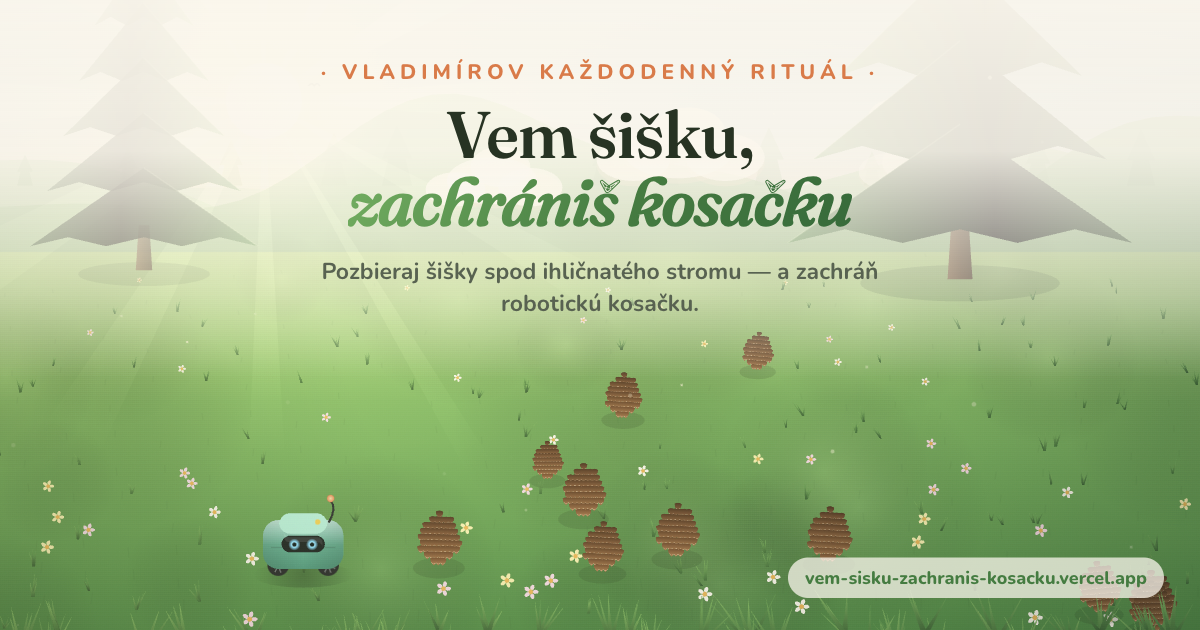
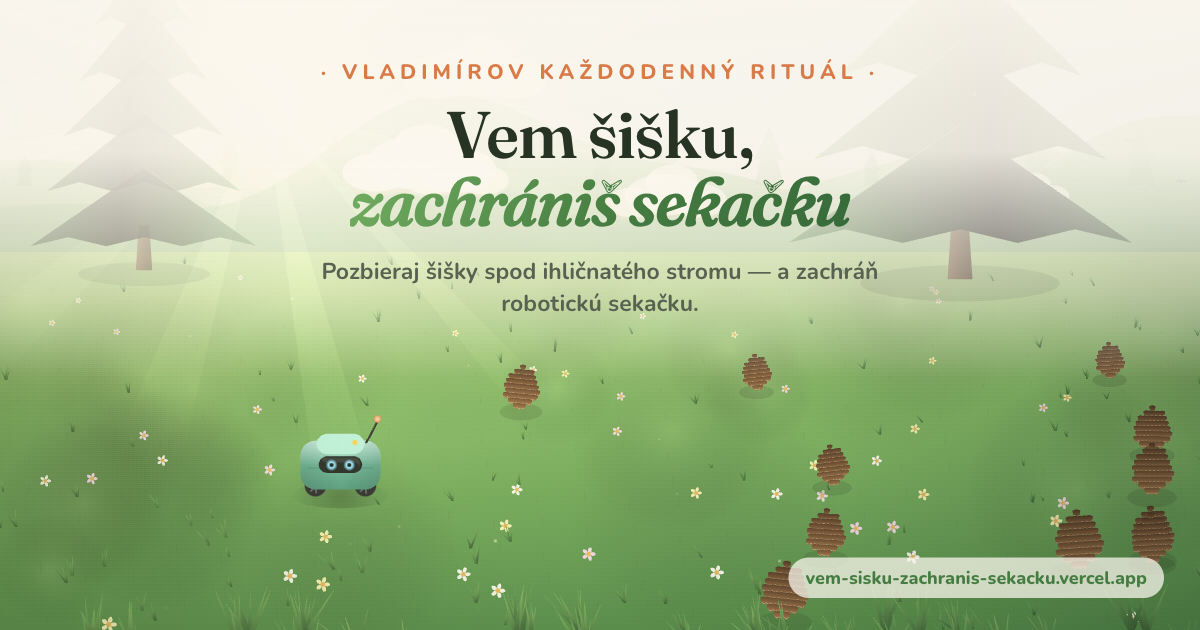
Rename mower kosačka to sekačka and switch to sekacku domain
Replace all "kosačka" wording with "sekačka" across UI, copy, README and
the regenerated OG image, point all canonical/OG/Twitter URLs to
vem-sisku-zachranis-sekacku.vercel.app, and left-align the difficulty
level options.

diff --git a/index.html b/index.html
@@ -4,30 +4,30 @@
   <meta charset="UTF-8" />
   <meta name="viewport" content="width=device-width, initial-scale=1.0, maximum-scale=1.0, user-scalable=no, viewport-fit=cover" />
   <meta name="theme-color" content="#bfe3c0" />
-  <title>Vem šišku, zachrániš kosačku</title>
-  <meta name="description" content="Pokojná záhradná simulácia – pozbieraj šišky spod ihličnatého stromu, kým robotická kosačka nenarazí na tri z nich. Vladimírov každodenný rituál." />
+  <title>Vem šišku, zachrániš sekačku</title>
+  <meta name="description" content="Pokojná záhradná simulácia – pozbieraj šišky spod ihličnatého stromu, kým robotická sekačka nenarazí na tri z nich. Vladimírov každodenný rituál." />
 
-  <link rel="canonical" href="https://vem-sisku-zachranis-kosacku.vercel.app/" />
+  <link rel="canonical" href="https://vem-sisku-zachranis-sekacku.vercel.app/" />
 
   <!-- Open Graph -->
   <meta property="og:type" content="website" />
-  <meta property="og:site_name" content="Vem šišku, zachrániš kosačku" />
+  <meta property="og:site_name" content="Vem šišku, zachrániš sekačku" />
   <meta property="og:locale" content="sk_SK" />
-  <meta property="og:url" content="https://vem-sisku-zachranis-kosacku.vercel.app/" />
-  <meta property="og:title" content="Vem šišku, zachrániš kosačku" />
-  <meta property="og:description" content="Pozbieraj šišky spod ihličnatého stromu — a zachráň robotickú kosačku. Vladimírov každodenný rituál." />
-  <meta property="og:image" content="https://vem-sisku-zachranis-kosacku.vercel.app/og-image.png" />
+  <meta property="og:url" content="https://vem-sisku-zachranis-sekacku.vercel.app/" />
+  <meta property="og:title" content="Vem šišku, zachrániš sekačku" />
+  <meta property="og:description" content="Pozbieraj šišky spod ihličnatého stromu — a zachráň robotickú sekačku. Vladimírov každodenný rituál." />
+  <meta property="og:image" content="https://vem-sisku-zachranis-sekacku.vercel.app/og-image.png" />
   <meta property="og:image:type" content="image/png" />
   <meta property="og:image:width" content="1200" />
   <meta property="og:image:height" content="630" />
-  <meta property="og:image:alt" content="Robotická kosačka na trávniku plnom šišiek pod ihličnatým stromom." />
+  <meta property="og:image:alt" content="Robotická sekačka na trávniku plnom šišiek pod ihličnatým stromom." />
 
   <!-- Twitter -->
   <meta name="twitter:card" content="summary_large_image" />
-  <meta name="twitter:title" content="Vem šišku, zachrániš kosačku" />
-  <meta name="twitter:description" content="Pozbieraj šišky spod ihličnatého stromu — a zachráň robotickú kosačku." />
-  <meta name="twitter:image" content="https://vem-sisku-zachranis-kosacku.vercel.app/og-image.png" />
-  <meta name="twitter:image:alt" content="Robotická kosačka na trávniku plnom šišiek pod ihličnatým stromom." />
+  <meta name="twitter:title" content="Vem šišku, zachrániš sekačku" />
+  <meta name="twitter:description" content="Pozbieraj šišky spod ihličnatého stromu — a zachráň robotickú sekačku." />
+  <meta name="twitter:image" content="https://vem-sisku-zachranis-sekacku.vercel.app/og-image.png" />
+  <meta name="twitter:image:alt" content="Robotická sekačka na trávniku plnom šišiek pod ihličnatým stromom." />
 
   <link rel="preconnect" href="https://fonts.googleapis.com" />
   <link rel="preconnect" href="https://fonts.gstatic.com" crossorigin />
@@ -51,7 +51,7 @@
       <div class="meta">
         <div class="day" id="day">Deň 1</div>
         <div class="remaining" id="remaining">0 spod stromu</div>
-        <div class="health" id="health" title="Stav kosačky" aria-label="Stav kosačky">
+        <div class="health" id="health" title="Stav sekačky" aria-label="Stav sekačky">
           <span class="pip"></span><span class="pip"></span><span class="pip"></span>
         </div>
       </div>
@@ -68,11 +68,11 @@
     <div class="intro" id="intro">
       <div class="intro__card">
         <p class="intro__eyebrow">Vladimírov každodenný rituál</p>
-        <h1 class="intro__title">Vem šišku,<br /><em>zachrániš kosačku</em></h1>
+        <h1 class="intro__title">Vem šišku,<br /><em>zachrániš sekačku</em></h1>
         <p class="intro__text">
           Pod ihličnatým stromom je samá šiška. Kým ich pozbieraš,
-          robotická kosačka sa trávnika ani nedotkne. Pozbieraj ich všetky –
-          klikni alebo prejdi prstom po šiškách – a pusti kosačku do práce.
+          robotická sekačka sa trávnika ani nedotkne. Pozbieraj ich všetky –
+          klikni alebo prejdi prstom po šiškách – a pusti sekačku do práce.
         </p>
 
         <div class="levels" id="levels" role="radiogroup" aria-label="Úroveň obtiažnosti">
@@ -80,21 +80,21 @@
             <span class="level__num">1</span>
             <span class="level__body">
               <span class="level__name">Začiatočník</span>
-              <span class="level__desc">kosačka sa sotva vlečie</span>
+              <span class="level__desc">sekačka sa sotva vlečie</span>
             </span>
           </button>
           <button class="level is-active" id="level-advanced" type="button" role="radio" aria-checked="true" data-level="advanced">
             <span class="level__num">2</span>
             <span class="level__body">
               <span class="level__name">Pokročilý</span>
-              <span class="level__desc">kosačka si to mieri rovno k šiškám</span>
+              <span class="level__desc">sekačka si to mieri rovno k šiškám</span>
             </span>
           </button>
           <button class="level" id="level-expert" type="button" role="radio" aria-checked="false" data-level="expert">
             <span class="level__num">3</span>
             <span class="level__body">
               <span class="level__name">Expert <em>(Vladimír)</em></span>
-              <span class="level__desc">kosačka loví ako o život</span>
+              <span class="level__desc">sekačka loví ako o život</span>
             </span>
           </button>
         </div>
@@ -107,9 +107,9 @@
     <!-- Game over -->
     <div class="over" id="over">
       <div class="over__card">
-        <p class="over__eyebrow">pokazená kosačka</p>
+        <p class="over__eyebrow">pokazená sekačka</p>
         <h2 class="over__title">Koniec rituálu</h2>
-        <p class="over__text" id="over-text">Kosačka prešla cez tri šišky a odišla do servisu.</p>
+        <p class="over__text" id="over-text">Sekačka prešla cez tri šišky a odišla do servisu.</p>
         <div class="over__stats">
           <div><strong id="over-day">1</strong><span>deň</span></div>
           <div><strong id="over-total">0</strong><span>šišiek</span></div>

diff --git a/game.js b/game.js
@@ -1,7 +1,7 @@
 /*
- * Vem šišku, zachrániš kosačku
+ * Vem šišku, zachrániš sekačku
  * Pokojná záhradná simulácia – pozbieraj šišky spod ihličnatého stromu,
- * aby robotická kosačka mohla pokosiť trávnik.
+ * aby robotická sekačka mohla pokosiť trávnik.
  *
  * Čistá HTML5 canvas implementácia, bez závislostí.
  */
@@ -33,7 +33,7 @@
   const $levelBtns = $levels ? Array.from($levels.querySelectorAll(".level")) : [];
 
   // ---------- Difficulty ----------
-  // speed = násobič rýchlosti lovenia kosačky, grace = ranná pauza navyše (s)
+  // speed = násobič rýchlosti lovenia sekačky, grace = ranná pauza navyše (s)
   const DIFFICULTIES = {
     beginner: { id: "beginner", label: "Začiatočník", speed: 0.6, grace: 1.2 },
     advanced: { id: "advanced", label: "Pokročilý", speed: 1.0, grace: 0 },
@@ -175,7 +175,7 @@
     phase: "intro", // intro | collecting | mowing | done | gameover
     day: 1,
     collectedTotal: 0,
-    damage: 0, // koľko šišiek kosačka rozdrvila (3 = koniec)
+    damage: 0, // koľko šišiek sekačka rozdrvila (3 = koniec)
     cones: [],
     particles: [],
     clouds: [],
@@ -243,12 +243,12 @@
       cone.y0 = cone.py;
       state.cones.push(cone);
     }
-    // kosačka začína deň doma a vyrazí loviť šišky
+    // sekačka začína deň doma a vyrazí loviť šišky
     state.mower.x = layout.home.x;
     state.mower.y = layout.home.y;
     state.mower.vx = 0;
     state.mower.vy = 0;
-    // ranná pauza: kosačka chvíľu postojí (kým šišky dopadnú a hráč začne)
+    // ranná pauza: sekačka chvíľu postojí (kým šišky dopadnú a hráč začne)
     state.mower.cooldown = Math.max(0.8, 2.6 + currentDiff().grace - (day - 1) * 0.2);
     updateHud();
   }
@@ -280,7 +280,7 @@
     return true;
   }
 
-  // kosačka prešla cez šišku – rozdrví ju a poškodí sa
+  // sekačka prešla cez šišku – rozdrví ju a poškodí sa
   function crushCone(cone) {
     if (cone.state === "flying" || cone.state === "gone" || cone.state === "crush") return;
     cone.state = "crush";
@@ -401,7 +401,7 @@
   function pickToast() {
     const opts = [
       "Pokosené! 🌿",
-      "Kosačka jazdí! ✨",
+      "Sekačka jazdí! ✨",
       "Trávnik ako zamat 🌱",
       "Vladimír by bol hrdý 👏",
     ];
@@ -562,14 +562,14 @@
       return;
     }
 
-    // intro / done / gameover – kosačka stojí (alebo dymí) doma
+    // intro / done / gameover – sekačka stojí (alebo dymí) doma
     m.bob = Math.sin(state.time * 2) * 3;
     if (state.phase === "intro") {
       m.x = layout.home.x;
       m.y = layout.home.y + m.bob;
     }
     if (state.phase === "gameover" && Math.random() < 0.5) {
-      // unikajúci dym z pokazenej kosačky
+      // unikajúci dym z pokazenej sekačky
       state.particles.push({
         x: m.x + rand(-10, 10), y: m.y - 24,
         vx: rand(-12, 12), vy: rand(-50, -20),

diff --git a/style.css b/style.css
@@ -319,6 +319,7 @@ html, body {
   border-radius: 16px;
   cursor: pointer;
   font-family: inherit;
+  text-align: left;
   color: var(--ink);
   background: rgba(255, 255, 255, 0.42);
   border: 1.5px solid rgba(120, 86, 50, 0.16);
@@ -340,7 +341,7 @@ html, body {
   background: rgba(120, 86, 50, 0.12);
   transition: background 0.2s ease, color 0.2s ease;
 }
-.level__body { display: flex; flex-direction: column; line-height: 1.25; }
+.level__body { display: flex; flex: 1; min-width: 0; flex-direction: column; align-items: flex-start; line-height: 1.25; }
 .level__name { font-weight: 800; font-size: 0.98rem; }
 .level__name em { font-style: italic; font-weight: 700; color: var(--accent); }
 .level__desc { font-size: 0.76rem; font-weight: 700; color: var(--ink-soft); opacity: 0.72; }

diff --git a/README.md b/README.md
@@ -1,31 +1,31 @@
-# Vem šišku, zachrániš kosačku 🌲🧺
+# Vem šišku, zachrániš sekačku 🌲🧺
 
 Pokojná záhradná webová simulácia. Pod ihličnatým stromom je samá šiška a
-robotická kosačka sa kvôli nim nepohne. Pozbieraj všetky šišky – a pusti
-kosačku, nech pokosí trávnik. Vladimírov každodenný rituál v prehliadači.
+robotická sekačka sa kvôli nim nepohne. Pozbieraj všetky šišky – a pusti
+sekačku, nech pokosí trávnik. Vladimírov každodenný rituál v prehliadači.
 
 Inšpirované [screen.toys/firewood](https://screen.toys/firewood/), ale namiesto
 sekania dreva tu **zbieraš šišky zo záhrady**.
 
 ## Ako sa hrá
 
-- Pred štartom si vyber **úroveň obtiažnosti**, ktorá určuje, ako rýchlo sa kosačka plíži za šiškami:
-  1. **Začiatočník** – kosačka sa sotva vlečie,
-  2. **Pokročilý** – kosačka si to mieri rovno k šiškám,
-  3. **Expert (Vladimír)** – kosačka loví ako o život.
+- Pred štartom si vyber **úroveň obtiažnosti**, ktorá určuje, ako rýchlo sa sekačka plíži za šiškami:
+  1. **Začiatočník** – sekačka sa sotva vlečie,
+  2. **Pokročilý** – sekačka si to mieri rovno k šiškám,
+  3. **Expert (Vladimír)** – sekačka loví ako o život.
 - **Klikni** na šišku alebo **prejdi prstom / ťahaj myšou** po šiškách a pozbieraj ich.
-- Pozor: robotická kosačka sa **pomaly plíži po trávniku** a snaží sa k šiškám dostať skôr ako ty.
-- Keď kosačka prejde cez šišku, **rozdrví ju a poškodí sa**. Po **troch** rozdrvených šiškách sa
-  pokazí a je **koniec hry**. Stav kosačky vidíš ako tri bodky v HUD-e.
-- Stihni pozbierať všetky šišky, kým je trávnik čistý – vtedy sa kosačka rozbehne a pokosí ho.
-- Začne nový deň – spod stromu napadá ďalšia (väčšia) dávka šišiek a kosačka je rýchlejšia. 🌿
+- Pozor: robotická sekačka sa **pomaly plíži po trávniku** a snaží sa k šiškám dostať skôr ako ty.
+- Keď sekačka prejde cez šišku, **rozdrví ju a poškodí sa**. Po **troch** rozdrvených šiškách sa
+  pokazí a je **koniec hry**. Stav sekačky vidíš ako tri bodky v HUD-e.
+- Stihni pozbierať všetky šišky, kým je trávnik čistý – vtedy sa sekačka rozbehne a pokosí ho.
+- Začne nový deň – spod stromu napadá ďalšia (väčšia) dávka šišiek a sekačka je rýchlejšia. 🌿
 
 ## Vlastnosti
 
 - Čisté HTML5 `<canvas>` – **bez závislostí**, žiadny build krok.
 - Plne responzívne (mobil aj desktop), podpora dotyku aj myši.
 - Plynulá grafika: ráno v záhrade, hojdajúci sa strom, oblaky, čiastočky svetla,
-  „roztomilá“ robotická kosačka a uspokojivé zbieranie s časticami a zvukom.
+  „roztomilá“ robotická sekačka a uspokojivé zbieranie s časticami a zvukom.
 - Rešpektuje `prefers-reduced-motion` a pozastaví sa na neaktívnej karte.
 
 ## Lokálny vývoj
@@ -56,4 +56,4 @@ Statická stránka, nasaditeľná na Vercel bez konfigurácie:
 vercel --prod
 ```
 
-Žije na <https://vem-sisku-zachranis-kosacku.vercel.app>.
+Žije na <https://vem-sisku-zachranis-sekacku.vercel.app>.